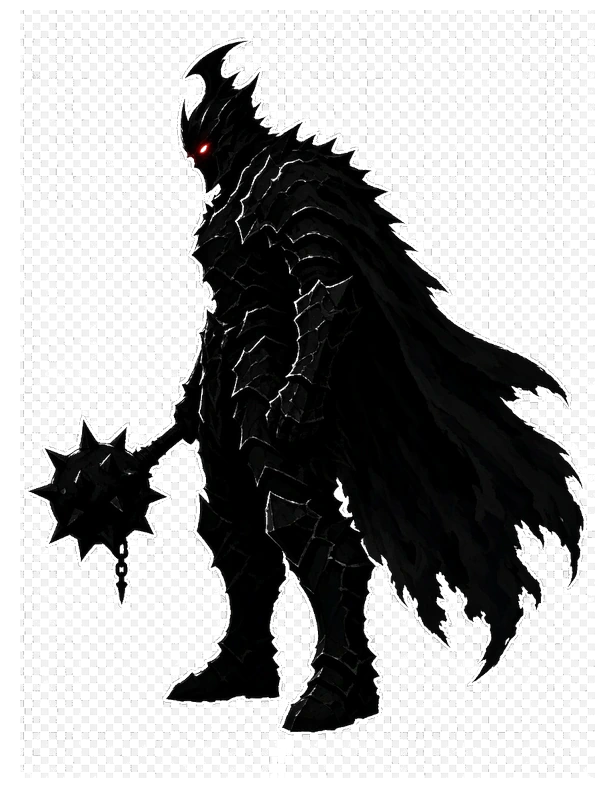
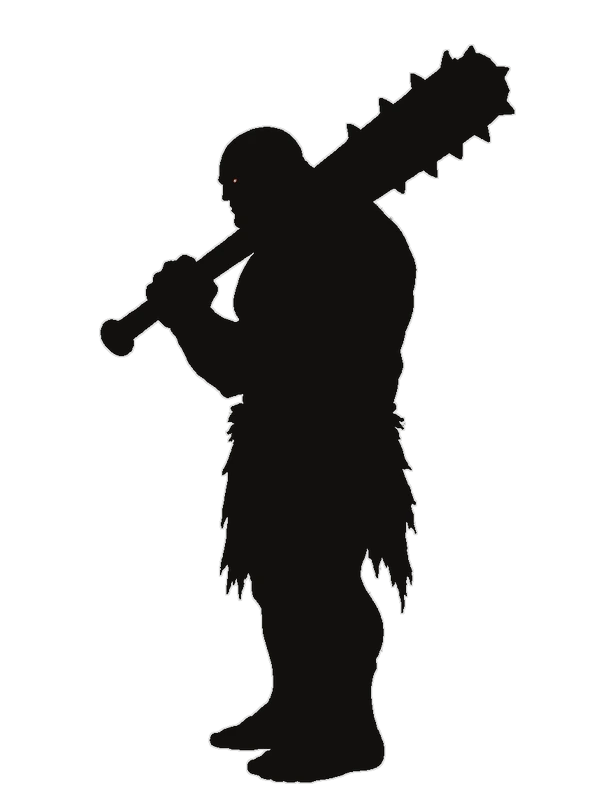
feat(spar): HQ ink silhouettes, smaller scale, one-enemy duels (EA0.33.0)
Replace crude spar silhouettes with sharper ink-wash profile art, shrink
draw scale to ~half stage height, and spawn a single left-facing foe at a
time so the hero walks in and fights one-on-one.

diff --git a/src/spar/engine.ts b/src/spar/engine.ts
@@ -325,37 +325,44 @@ export class SparStage {
     this.quiet = quiet;
   }
 
-  /** 靜態模式：右邊擺兩個企定嘅敵人，唔行唔郁 */
+  /** 開局：右邊企一個望左敵人，一打一個 */
   settleIntro() {
     if (this.cssW === 0) return;
-    // 0.22：避開電話框／UI 左緣，首幀就要見到人
-    this.heroX = this.cssW * 0.22;
+    // 0.20：縮小身形後留多啲行路空間
+    this.heroX = this.cssW * 0.20;
     this.laneResetting = false;
     this.director.resetToEnter();
     this.walkT = 0;
     this.heroFade = 1;
     const pick = (i: number) => this.enemyPool[i % this.enemyPool.length]!;
-    // 敵人企喺右緣固定畫面位置，望左唔郁（俾俠客有空間行過去）
+    // 單挑：淨擺一個敵人喺右緣望左
     this.enemies = [
-      { x: this.cssW * 0.72, state: 'hold', t: 9, bob: 1.7, stopJitter: 1, def: pick(1), speedMul: 1, scaleMul: 1 },
-      { x: this.cssW * 0.88, state: 'hold', t: 9, bob: 3.9, stopJitter: 1.55, def: pick(4), speedMul: 1, scaleMul: 1 },
+      { x: this.cssW * 0.74, state: 'hold', t: 9, bob: 1.7, stopJitter: 1, def: pick(1), speedMul: 1, scaleMul: 1 },
     ];
   }
 
-  /** 清場後／行盡右緣：俠客返左，右邊再企兩個望左敵人 */
+  /** 清場後／行盡右緣：俠客返左，再出下一個望左敵人 */
   private resetLane() {
-    this.heroX = this.cssW * 0.22;
+    this.heroX = this.cssW * 0.20;
     this.laneResetting = false;
     this.attackT = null;
     this.walkT = 0;
     this.heroFade = 0.45;
-    this.attackCooldown = 0.35;
+    this.attackCooldown = 0.28;
     const pick = (i: number) => this.enemyPool[i % this.enemyPool.length]!;
     const defIdx = Math.floor(Math.random() * this.enemyPool.length);
-    // 敵人企右邊，留出大半畫面畀主角行過去
+    // 一打一個：每次淨補一個
     this.enemies = [
-      { x: this.cssW * 0.70 + Math.random() * 12, state: 'spawn', t: 0, bob: Math.random() * 6, stopJitter: 1, def: pick(defIdx), speedMul: 1, scaleMul: 0.94 + Math.random() * 0.12 },
-      { x: this.cssW * 0.86 + Math.random() * 14, state: 'spawn', t: 0, bob: Math.random() * 6, stopJitter: 1.4, def: pick((defIdx + 3) % this.enemyPool.length), speedMul: 1, scaleMul: 0.94 + Math.random() * 0.12 },
+      {
+        x: this.cssW * 0.72 + Math.random() * 16,
+        state: 'spawn',
+        t: 0,
+        bob: Math.random() * 6,
+        stopJitter: 1,
+        def: pick(defIdx),
+        speedMul: 1,
+        scaleMul: 0.94 + Math.random() * 0.1,
+      },
     ];
   }
 
@@ -432,9 +439,14 @@ export class SparStage {
       }
     }
 
-    // 行過右緣、或清場後繼續行過敵位 → 重置
+    // 行過右緣、或單挑清場後 → 重置再出下一個
     const alive = this.enemies.filter((e) => e.state !== 'dead').length;
-    if (!this.laneResetting && (this.heroX > this.cssW * 0.94 || (alive === 0 && this.heroX > this.cssW * 0.78))) {
+    if (
+      !this.laneResetting &&
+      (this.heroX > this.cssW * 0.94 ||
+        (alive === 0 && this.attackT === null && this.enemies.length === 0) ||
+        (alive === 0 && this.attackT === null && this.heroX > this.cssW * 0.52))
+    ) {
       this.laneResetting = true;
       this.director.notifyLaneReset();
     }
@@ -563,9 +575,10 @@ export class SparStage {
   /** 舞台幾何：全部 px（CSS 像素）。俠客由左行過去；敵人右邊企定望左 */
   private geom() {
     const h = this.cssH;
-    const k = (h * 0.82) / SILHOUETTE_DESIGN_H;
+    // 身形約佔舞台高度一半，留山水同行走空間（舊 0.82 太大）
+    const k = (h * 0.48) / SILHOUETTE_DESIGN_H;
     // 首次／重設：俠客由左邊起步
-    if (this.heroX <= 0) this.heroX = this.cssW * 0.22;
+    if (this.heroX <= 0) this.heroX = this.cssW * 0.20;
     return {
       k,
       groundY: h * 0.92,
@@ -576,7 +589,7 @@ export class SparStage {
   /** 敵影縮放：剪影模式唔跟舊貼圖高度（否則高圖敵人會縮成火柴） */
   private enemyKe(e: EnemyInst) {
     const g = this.geom();
-    return g.k * 1.06 * (e.def.scale ?? 1) * e.scaleMul;
+    return g.k * 1.0 * (e.def.scale ?? 1) * e.scaleMul;
   }
 
   /** 敵人前緣伸出（css px）——剪影袍身約 90du 半寬 */
@@ -746,8 +759,8 @@ export class SparStage {
         dy: part.dy,
       });
 
-      // C：揮擊／快走時疊臂層（失敗唔影響主體）
-      if (this.images.layerArm && (striking || (this.directorSample?.walkMul ?? 0) > 0.35)) {
+      // C：全身幀已帶臂／武器；舊分層臂只喺揮擊極淡疊一層（避免蓋過新剪影）
+      if (this.images.layerArm && striking && (this.directorSample?.phase === 'strike')) {
         try {
           const shoulder = this.rig.shoulderSocket;
           ctx.save();

diff --git a/tests/sparApproach.test.ts b/tests/sparApproach.test.ts
@@ -64,7 +64,8 @@ describe('spar approach walk', () => {
     };
     const startHero = internal.heroX;
     const enemyXs = internal.enemies.map((e) => e.x);
-    expect(startHero).toBeCloseTo(360 * 0.22, 0);
+    expect(startHero).toBeCloseTo(360 * 0.20, 0);
+    expect(enemyXs).toHaveLength(1);
     expect(enemyXs[0]).toBeGreaterThan(360 * 0.65);
 
     for (let i = 0; i < 40; i++) stage.update(0.05); // 2 秒
@@ -72,5 +73,31 @@ describe('spar approach walk', () => {
     expect(internal.heroX).toBeGreaterThan(startHero + 80);
     expect(internal.enemies.map((e) => e.x)).toEqual(enemyXs);
     expect(internal.enemies.every((e) => e.state === 'hold' || e.state === 'spawn' || e.state === 'dead')).toBe(true);
+  });
+});
+
+describe('spar one-at-a-time duel', () => {
+  it('開局同重置都淨係一個敵人', () => {
+    const stage = new SparStage({
+      canvas: mockCanvas(),
+      images: {
+        heroIdle: blankImg(),
+        heroAttack: blankImg(),
+        enemies: [blankImg()],
+        splash: blankImg(),
+      },
+      enemies: [ENEMY_SHADOW],
+    });
+    stage.resize(360, 218, 1);
+    stage.settleIntro();
+    const internal = stage as unknown as { enemies: unknown[]; heroX: number };
+    expect(internal.enemies).toHaveLength(1);
+
+    // 強制清場後重置
+    (stage as unknown as { enemies: { state: string; t: number }[] }).enemies = [];
+    (stage as unknown as { heroX: number }).heroX = 360 * 0.6;
+    for (let i = 0; i < 30; i++) stage.update(0.05);
+    expect(internal.enemies.length).toBeLessThanOrEqual(1);
+    expect(internal.enemies.length).toBeGreaterThanOrEqual(1);
   });
 });

diff --git a/tests/version.test.ts b/tests/version.test.ts
@@ -2,8 +2,8 @@ import { describe, expect, it } from 'vitest';
 import { APP_VERSION, APP_VERSION_LABEL } from '../src/version';
 
 describe('app version', () => {
-  it('exposes Early Access release EA0.32.1', () => {
-    expect(APP_VERSION).toBe('EA0.32.1');
-    expect(APP_VERSION_LABEL).toContain('EA0.32.1');
+  it('exposes Early Access release EA0.33.0', () => {
+    expect(APP_VERSION).toBe('EA0.33.0');
+    expect(APP_VERSION_LABEL).toContain('EA0.33.0');
   });
 });

diff --git a/src/version.ts b/src/version.ts
@@ -8,6 +8,6 @@
  *
  * 每次合併可遊玩改動時，按改變幅度升一檔，並同步改本檔與 package.json。
  */
-export const APP_VERSION = 'EA0.32.1';
+export const APP_VERSION = 'EA0.33.0';
 
 export const APP_VERSION_LABEL = `版本 ${APP_VERSION}`;
